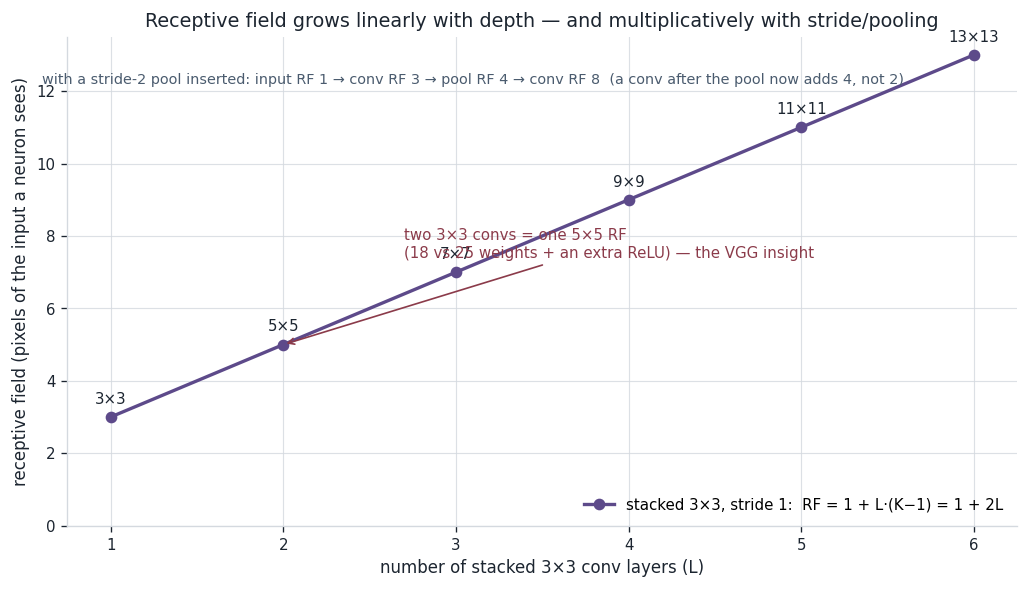
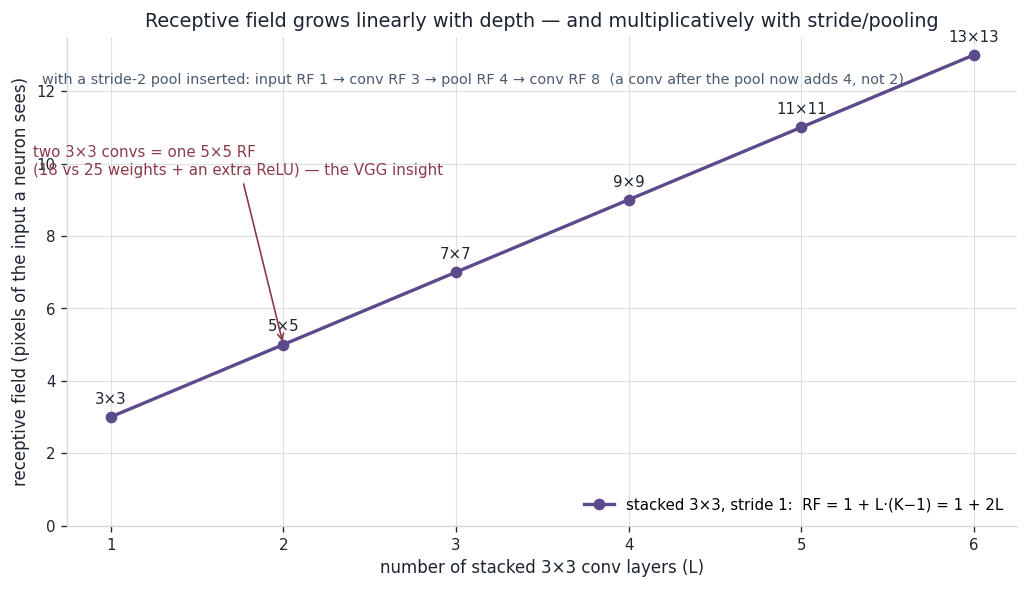
fix(05-dl-cnn): correct pool-caption max (3 not 7) + CNN-vs-MLP scaling caveat + docstring
- pool figure caption: bottom-left window max is 3 not 7 (6,4,7,9 -> 6,4,3,9); figure was right, caption was a typo
- CNN-vs-MLP: add one paragraph on why the MLP edges clean accuracy at 8x8 (too little spatial extent for the conv prior to pay off; the gap widens on real-resolution images) so the win here is param-efficiency + shift-robustness
- cnn.py docstring: align described tolerances to what actually runs (float64, ~1e-15 forward, ~1e-11 gradient-check, ~1e-15 vs autograd) instead of stale float32/1e-6 text
- dl13_receptive_field.png: nudge the VGG-insight annotation off the 7x7 point label

diff --git a/05. Deep_Learning/13-CNNs-and-Convolution/code/cnn.py b/05. Deep_Learning/13-CNNs-and-Convolution/code/cnn.py
@@ -9,16 +9,17 @@ of every CNN — and it is proven correct several independent ways:
 
   1. **Forward, three ways agree.** A from-scratch ``conv2d_naive`` (explicit multiply-and-sum loops), an
      ``conv2d_im2col`` (unfold the patches, one matmul — what frameworks actually do), ``scipy.signal``
-     cross-correlation, and ``torch.nn.functional.conv2d`` all produce the *same* feature map (loops match
-     torch to float32 summation-order noise ~1e-6; im2col matches torch to exactly 0; scipy matches the
-     single-channel case to ~1e-6). Each equality is a hard ``assert``.
+     cross-correlation, and ``torch.nn.functional.conv2d`` all produce the *same* feature map. Everything runs
+     in float64, so the differences are pure summation-order rounding: loops match torch to ~1e-15, im2col
+     matches torch to ~1e-15 (it *is* the same matmul), and scipy matches the single-channel case to ~1e-16.
+     Each equality is a hard ``assert``.
 
   2. **Backward, gradient-checked and autograd-checked.** The from-scratch ``conv2d_backward`` (returning
      dL/dX, dL/dW, dL/db) is checked two ways: against a **centred finite-difference** gradient for every
-     entry (median relative error ~1e-9 on float64) and against **torch autograd** on the identical op
-     (allclose to ~1e-6). Max-pooling's forward and backward (route the gradient to the argmax) are likewise
-     cross-checked against ``torch``. Every check is a hard ``assert`` — a broken backward pass raises, it
-     does not print a bad number and exit 0.
+     entry (median relative error ~1e-11 on float64) and against **torch autograd** on the identical op
+     (all three gradients match to ~1e-15). Max-pooling's forward and backward (route the gradient to the
+     argmax) are likewise cross-checked against ``torch`` (exact, 0.0). Every check is a hard ``assert`` — a
+     broken backward pass raises, it does not print a bad number and exit 0.
 
   3. **A real filter on a real image.** The classic Sobel edge kernels, applied with our own ``conv2d_naive``
      to a real grayscale photograph, reproduce ``scipy.signal.convolve2d`` to machine tolerance — the

diff --git a/05. Deep_Learning/tools/make_figures_13.py b/05. Deep_Learning/tools/make_figures_13.py
@@ -232,7 +232,7 @@ def fig_receptive_field() -> None:
         ax.annotate(f"{r}×{r}", (ell, r), textcoords="offset points", xytext=(0, 8), color=INK, fontsize=9, ha="center")
     # mark the two-3x3 = one-5x5 insight
     ax.annotate("two 3×3 convs = one 5×5 RF\n(18 vs 25 weights + an extra ReLU) — the VGG insight",
-                xy=(2, 5), xytext=(2.7, 7.4), color=RED, fontsize=9, ha="left",
+                xy=(2, 5), xytext=(0.55, 9.7), color=RED, fontsize=9, ha="left",
                 arrowprops={"arrowstyle": "->", "color": RED})
     # the stride-2 trace as a second series
     names = [t[0] for t in rf.rf_with_pool]
